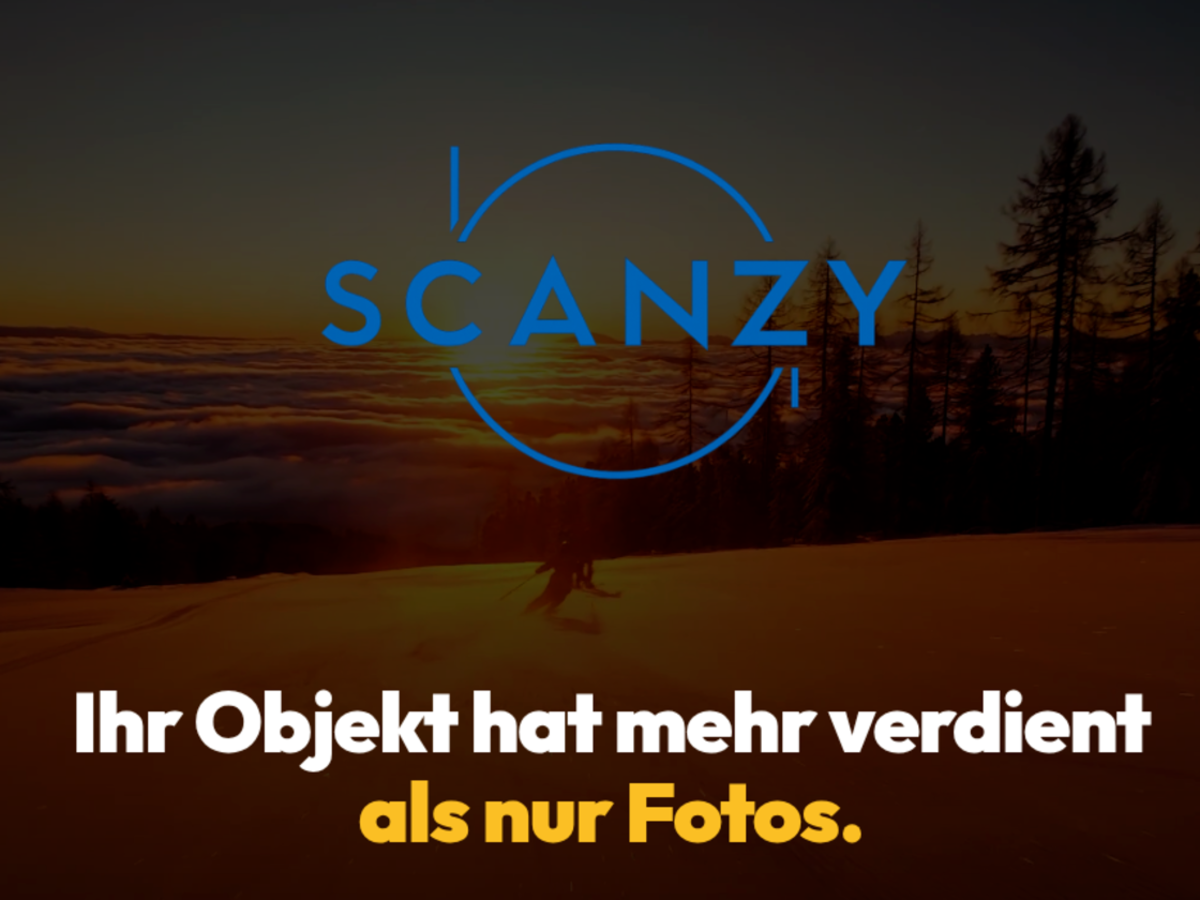
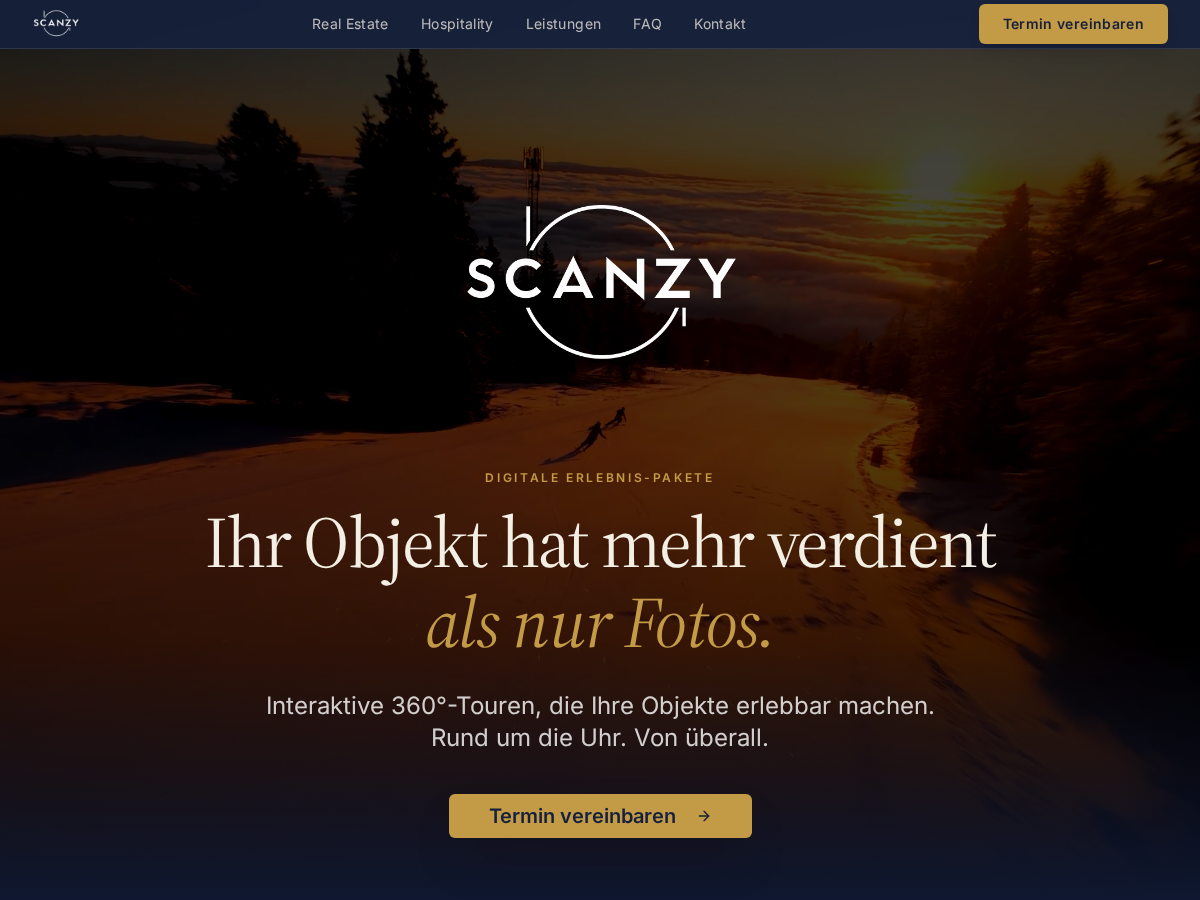
chore(work): refresh scanzy showcase screenshot post-redesign
Updated hero capture reflects the warm sunset landscape and revised
typographic treatment. Alt-text updated DE/EN to match (no longer 'dark
mountain landscape').

diff --git a/src/data/projects.ts b/src/data/projects.ts
@@ -102,8 +102,8 @@ export const projects: Project[] = [
     links: [{ href: 'https://scanzy.at', labelKey: 'work.visitLink' }],
     image: '/projects/scanzy.png',
     imageAlt: {
-      de: 'scanzy.at Startseite — Wortmarke SCANZY über einer dunklen Berglandschaft mit der Headline „Ihr Objekt hat mehr verdient als nur Fotos.“',
-      en: 'scanzy.at homepage — SCANZY wordmark above a dark mountain landscape with the headline “Ihr Objekt hat mehr verdient als nur Fotos.”',
+      de: 'scanzy.at Startseite — SCANZY-Wortmarke über einer warmen Sonnenuntergangs-Berglandschaft, darunter die Headline „Ihr Objekt hat mehr verdient als nur Fotos.“',
+      en: 'scanzy.at homepage — SCANZY wordmark above a warm sunset mountain landscape with the headline “Ihr Objekt hat mehr verdient als nur Fotos.”',
     },
     outcome: {
       de: 'Zentraler Anlaufpunkt für Anfragen und Standort-Präsentation.',

diff --git a/src/data/caseStudies.ts b/src/data/caseStudies.ts
@@ -63,8 +63,8 @@ export const caseStudies: CaseStudy[] = [
     ],
     image: '/projects/scanzy.png',
     imageAlt: {
-      de: 'scanzy.at Startseite: Wortmarke SCANZY über einer dunklen Berglandschaft mit der Headline „Ihr Objekt hat mehr verdient als nur Fotos.“',
-      en: 'scanzy.at homepage: SCANZY wordmark above a dark mountain landscape with the headline "Ihr Objekt hat mehr verdient als nur Fotos."',
+      de: 'scanzy.at Startseite: SCANZY-Wortmarke über einer warmen Sonnenuntergangs-Berglandschaft, darunter die Headline „Ihr Objekt hat mehr verdient als nur Fotos.“',
+      en: 'scanzy.at homepage: SCANZY wordmark above a warm sunset mountain landscape with the headline "Ihr Objekt hat mehr verdient als nur Fotos."',
     },
   },
   {
